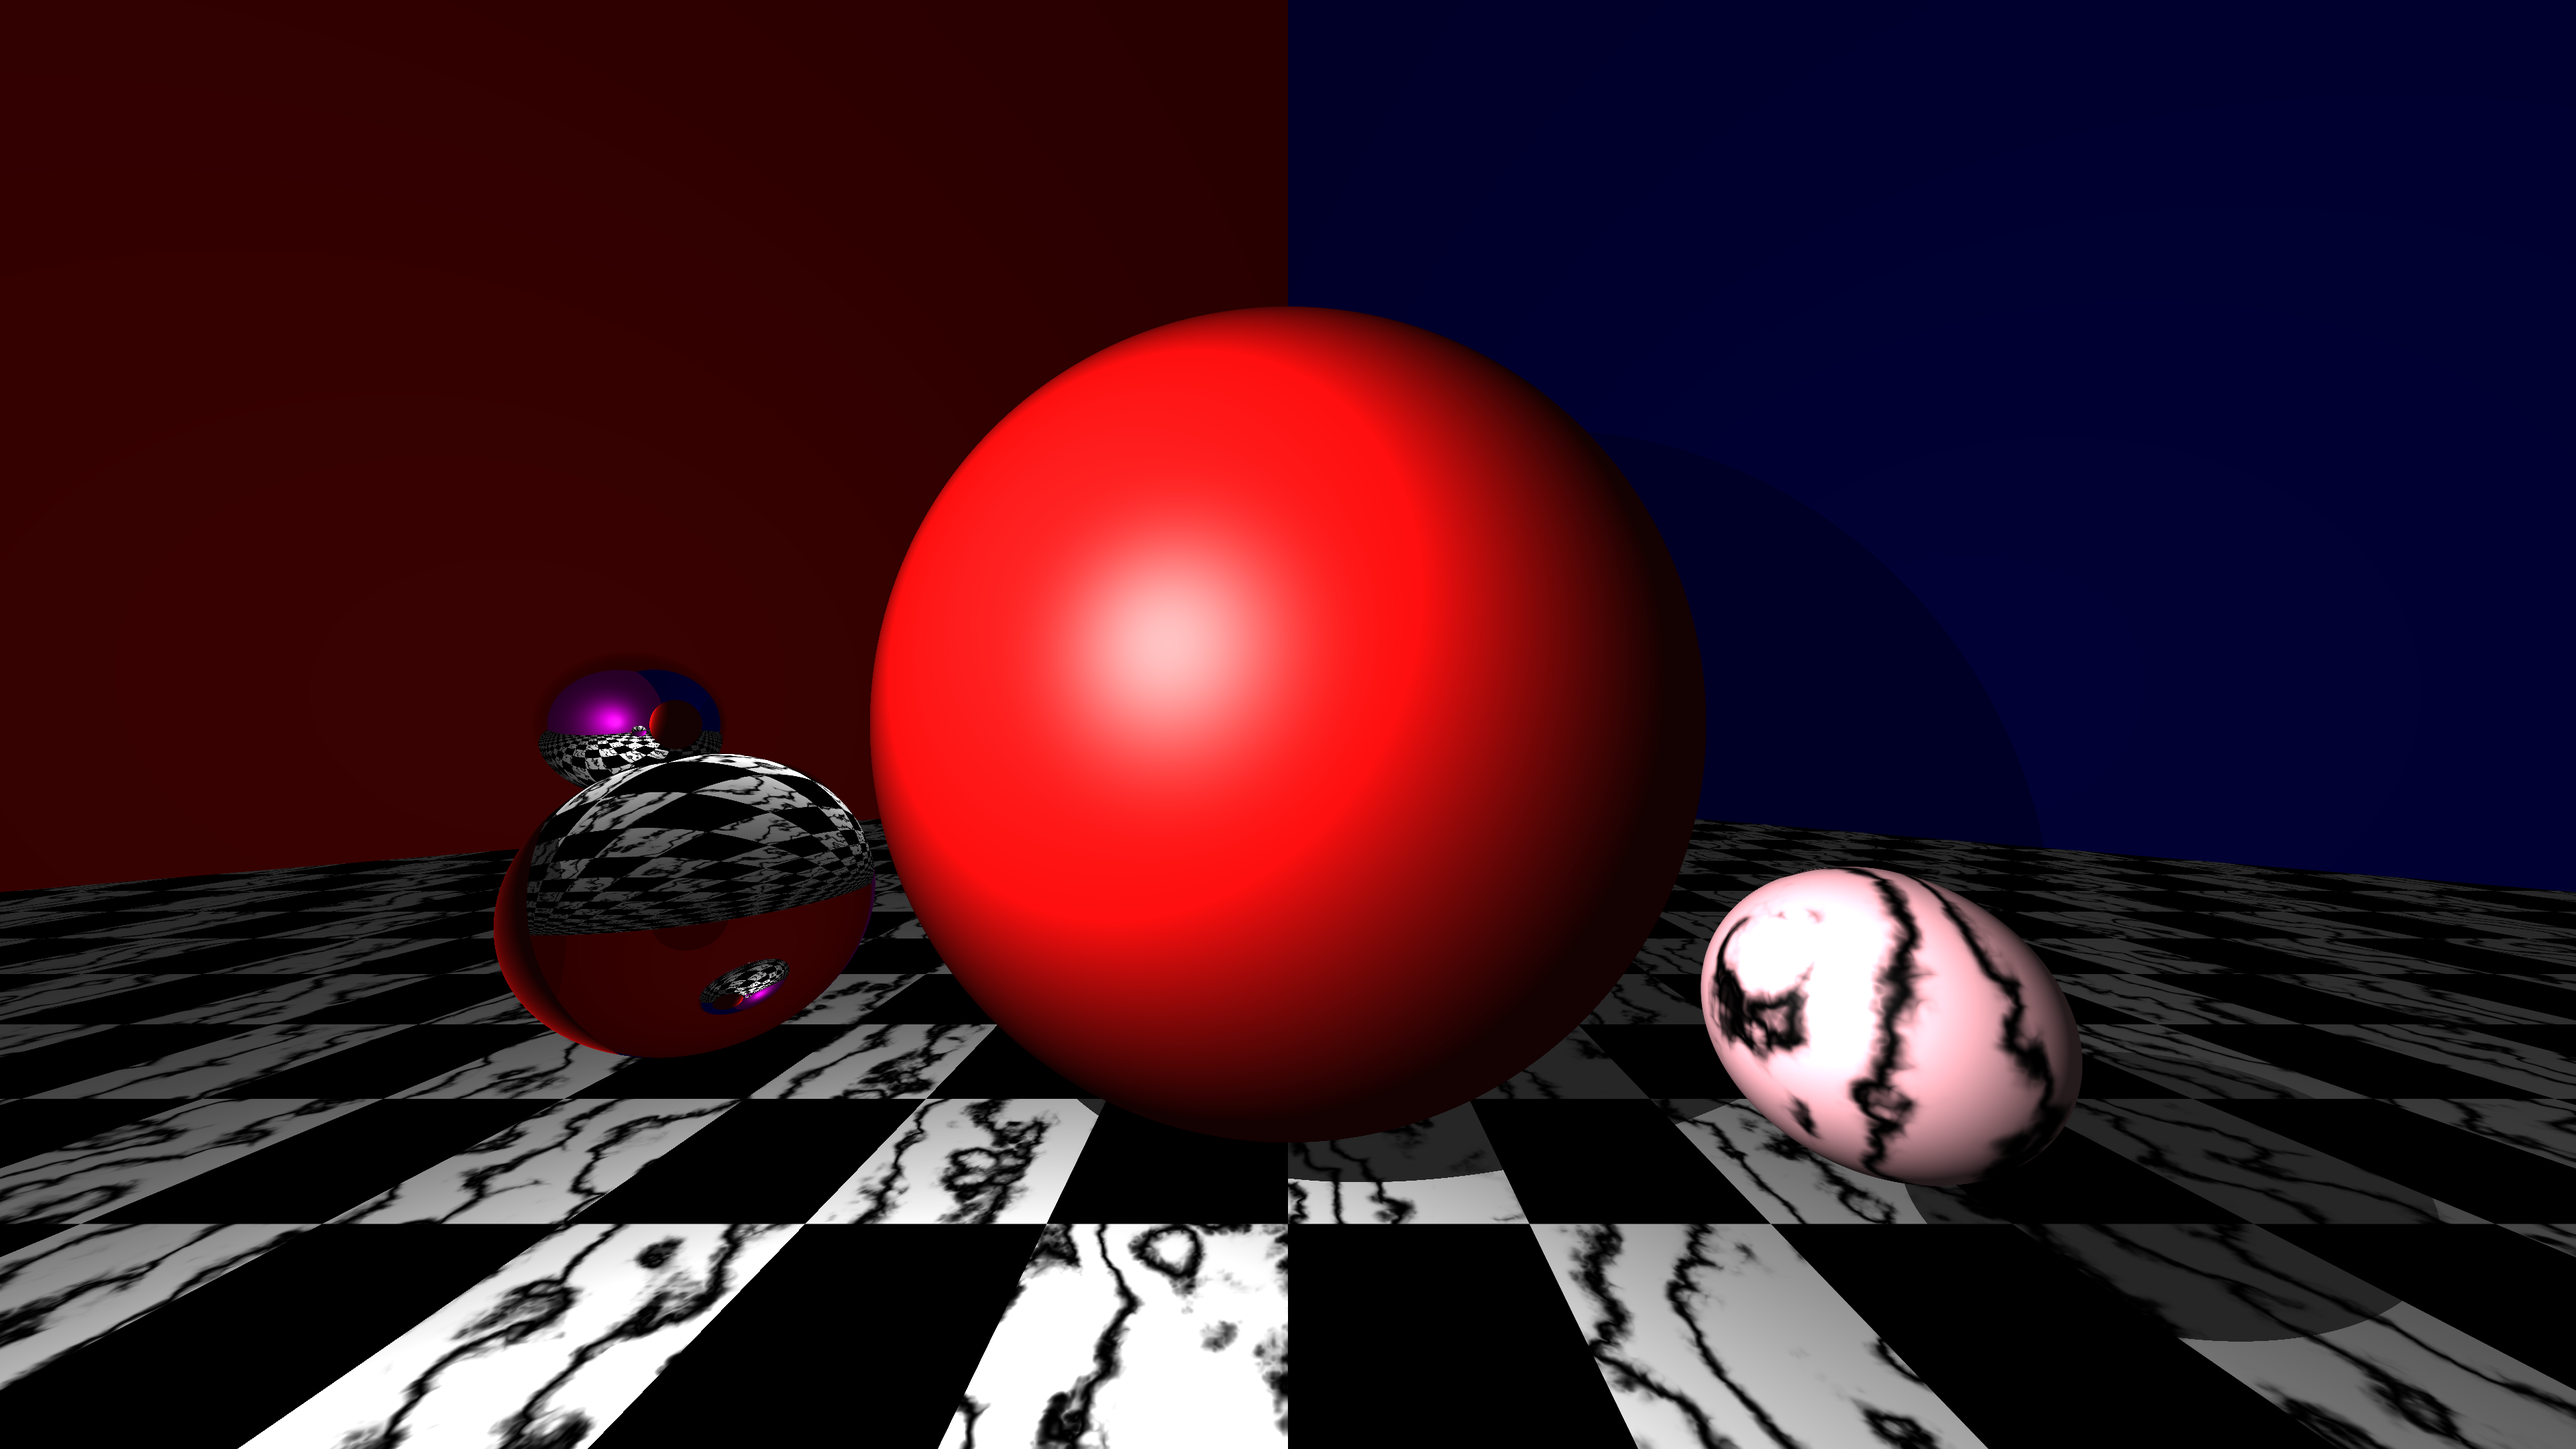
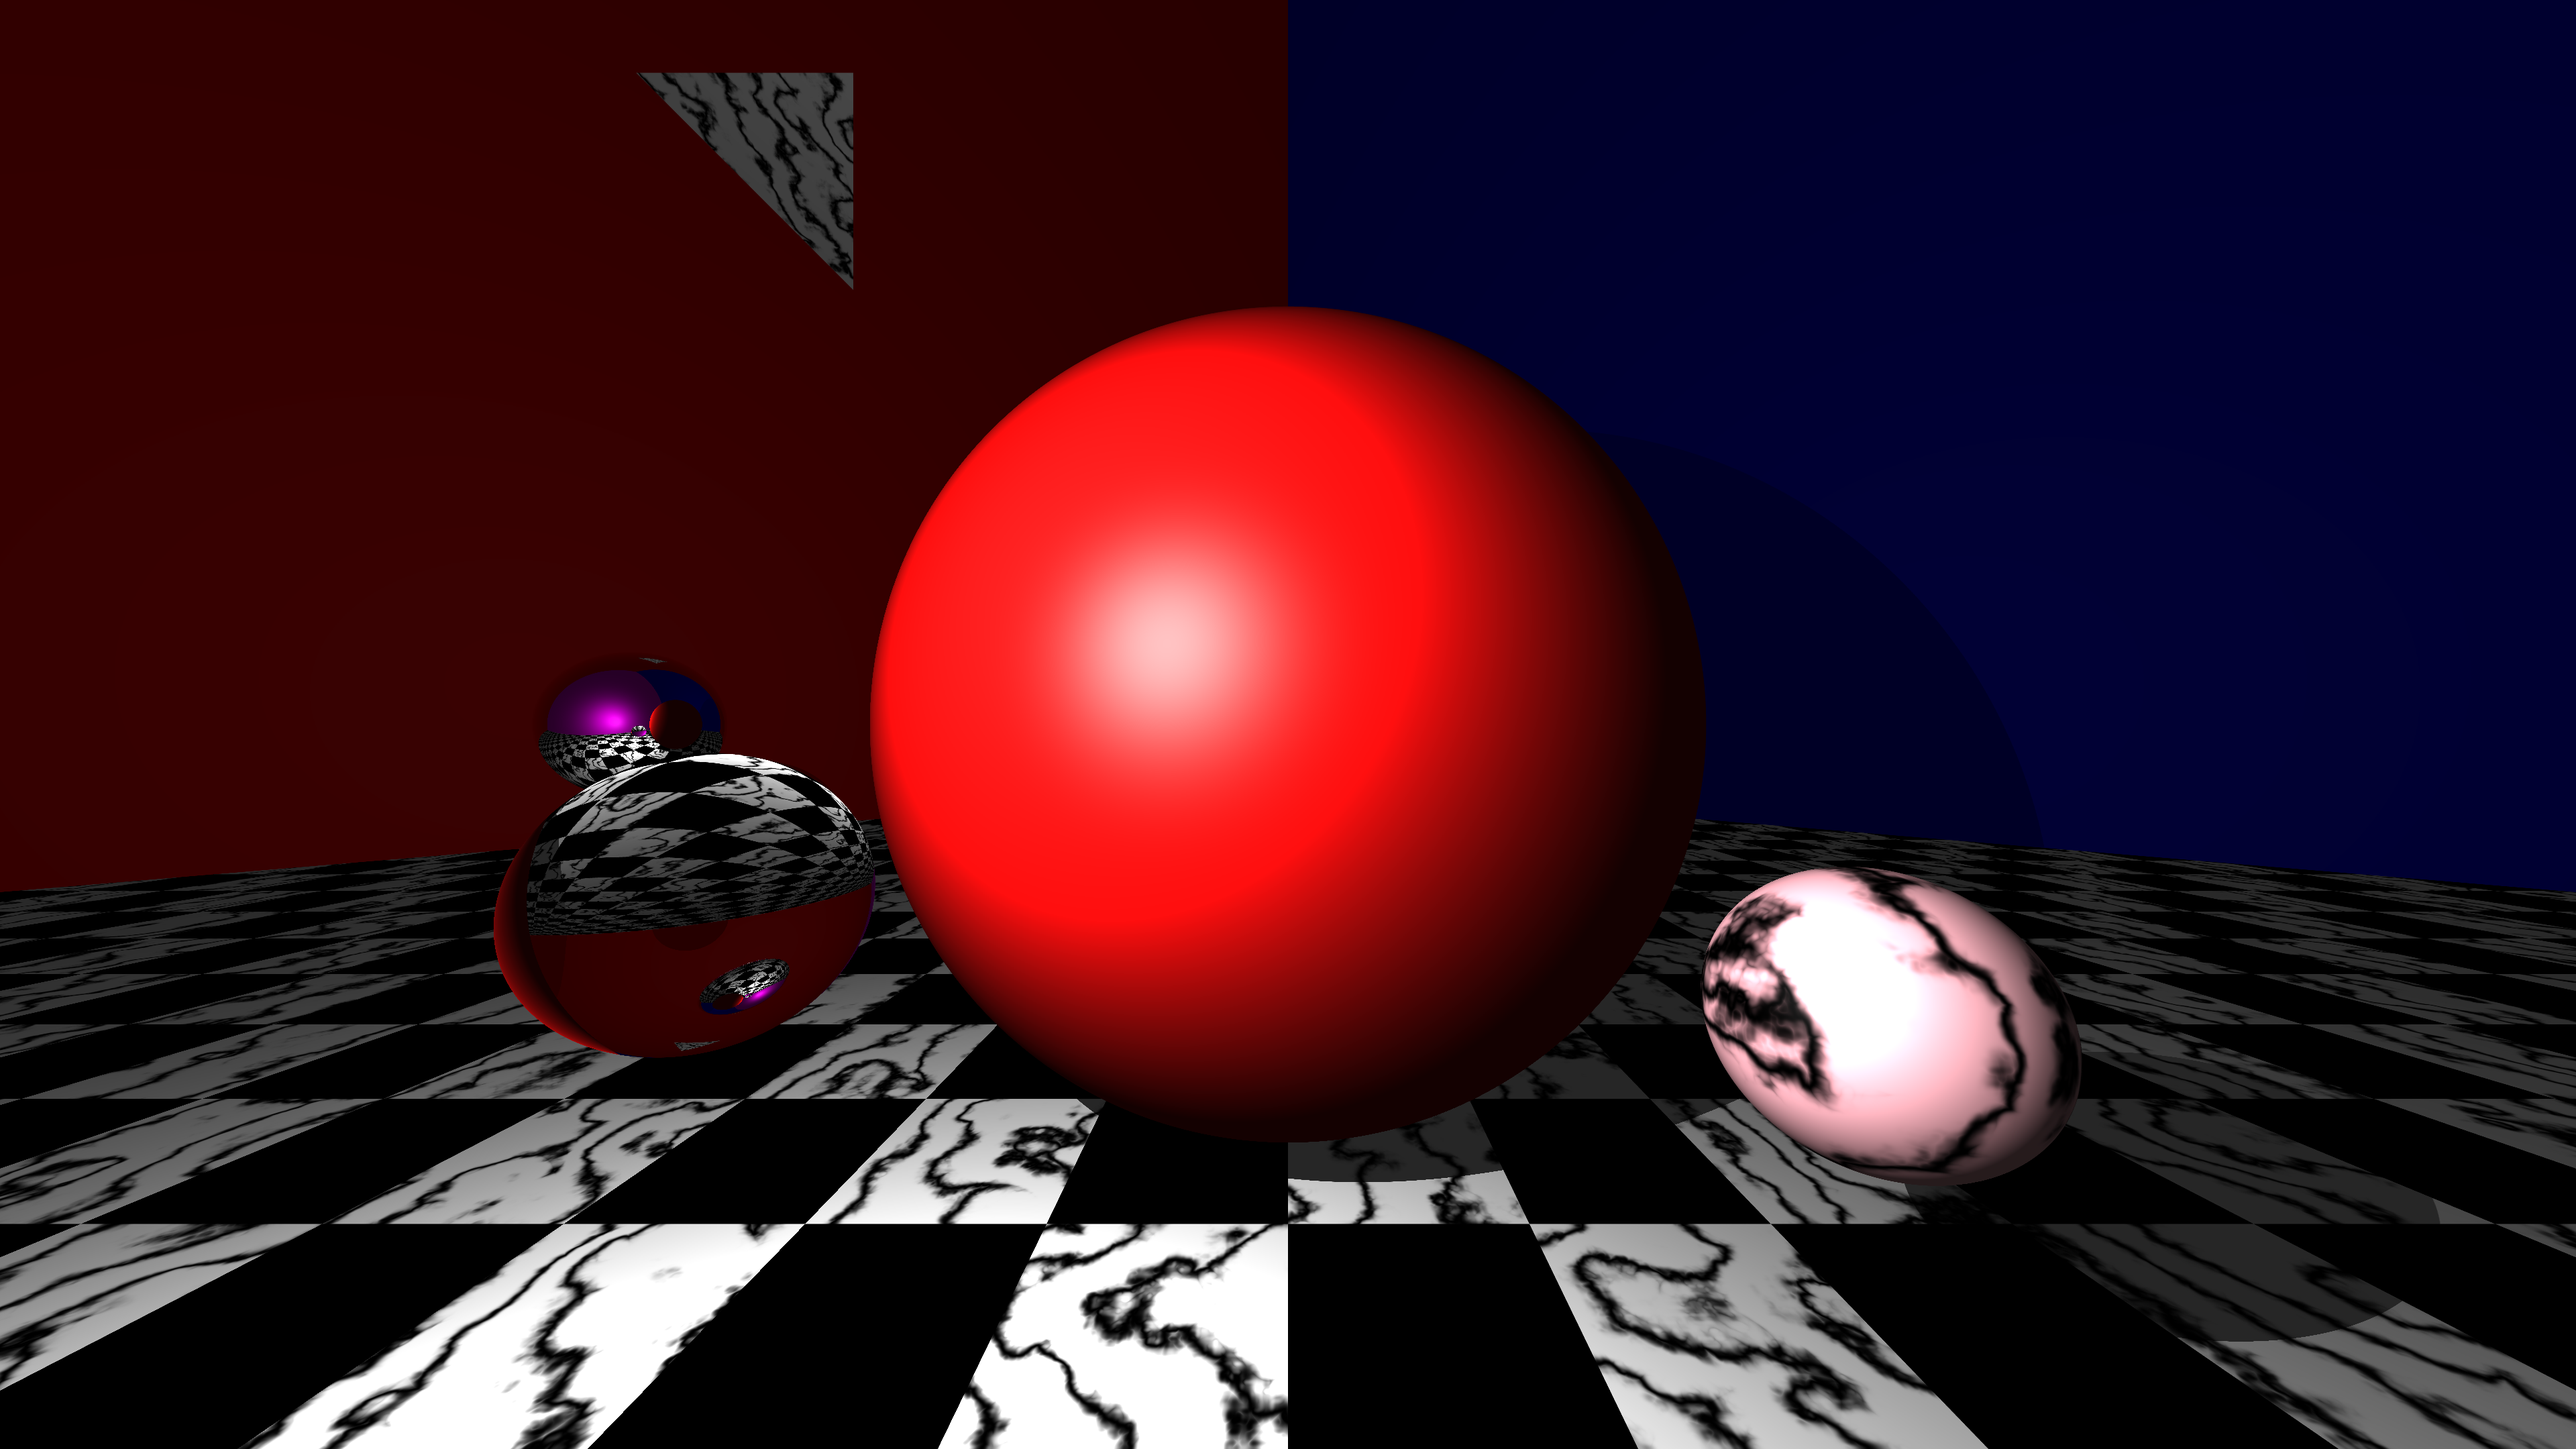
add triangle objects. needs testing

diff --git a/src/tracer/object.rs b/src/tracer/object.rs
@@ -1,4 +1,4 @@
-use crate::DVec3;
+use crate::{DVec3, DMat3};
 use crate::tracer::ray::Ray;
 use crate::tracer::hit::Hit;
 use crate::tracer::material::Material;
@@ -15,6 +15,99 @@ pub trait Object: Sync {
     fn material(&self) -> &Material;
 }
 
+/* FIGURE OUT BEING INSIDE. CANT BE INSIDE PLANES OR TRIANGLES. (OR RECTANGLES) */
+
+
+/* barycentir interpolation ~ different texture at each point of triangle */
+/* normal inside?? */
+pub struct Triangle {
+    a: DVec3,
+    b: DVec3,
+    c: DVec3,
+    n: DVec3,
+    material: Material,
+}
+
+impl Triangle {
+    /* assume non-degenerate */
+    pub fn new(a: DVec3, b: DVec3, c: DVec3, m: Material) -> Box<Self> {
+        let norm = -(b - a).cross(c - a).normalize();
+
+        Box::new(Self {
+            a: a,
+            b: b,
+            c: c,
+            n: norm,
+            material: m,
+        })
+    }
+}
+
+impl Object for Triangle {
+    fn material(&self) -> &Material { &self.material }
+
+    fn normal_at(&self, _p: DVec3) -> DVec3 { self.n }
+
+    /* barycentric triangle intersection with Cramer's rule */
+    /* some bug here that makes the order of points matter, in matrix stuff? */
+    fn hit(&self, r: &Ray) -> Option<Hit> {
+        /* can store a-c, a-b, and a instead. saves some computation.
+         * compiler should do it?
+         * need more if also want gamma and beta (for interp?) */
+
+        let mat_a = DMat3::from_cols(
+            self.a - self.b,
+            self.a - self.c,
+            r.dir
+        );
+        let det_a = mat_a.determinant();
+
+        if det_a < crate::EPSILON {
+            return None;
+        }
+
+        let vec_b = self.a - r.origin;
+
+        let vec_x = mat_a.inverse() * vec_b;
+/*
+        let beta = DMat3::from_cols(
+            vec_b,
+            mat_a.col(1),
+            mat_a.col(2),
+        ).determinant() / det_a;
+
+        let gamma = DMat3::from_cols(
+            mat_a.col(0),
+            vec_b,
+            mat_a.col(2),
+        ).determinant() / det_a;
+         */
+        let beta = vec_x.x;
+        let gamma = vec_x.y;
+        if beta < 0.0 || gamma < 0.0
+            || beta + gamma > 1.0 {
+            return None;
+        }
+/*
+        let t = DMat3::from_cols(
+            mat_a.col(0),
+            mat_a.col(1),
+            vec_b,
+        ).determinant() / det_a;
+         */
+        let t = vec_x.z;
+        if t < crate::EPSILON {
+            None
+        } else {
+            Some(Hit::new(
+                t,
+                self,
+                r.at(t),
+            ))
+        }
+    }
+}
+
 pub struct Plane {
     norm: DVec3,
     material: Material,
@@ -22,6 +115,7 @@ pub struct Plane {
 }
 
 impl Plane {
+    /* assume n != 0 */
     pub fn new(p: DVec3, n: DVec3, m: Material) -> Box<Plane> {
         let norm = n.normalize();
         Box::new(Plane {
@@ -52,7 +146,6 @@ impl Object for Plane {
                 t,
                 self,
                 r.at(t),
-                self.normal_at(r.at(t))
             ))
         }
     }
@@ -65,6 +158,7 @@ pub struct Sphere {
 }
 
 impl Sphere {
+    /* assume r != 0 */
     pub fn new(origin: DVec3, r: f64, mat: Material) -> Box<Sphere> {
         Box::new(Sphere {
             origin: origin,
@@ -105,7 +199,6 @@ impl Object for Sphere {
             t,
             self,
             r.at(t),
-            self.normal_at(r.at(t))
         ))
      }
 }

diff --git a/src/tracer/scene.rs b/src/tracer/scene.rs
@@ -1,6 +1,6 @@
 use crate::perlin::Perlin;
 use crate::DVec3;
-use crate::tracer::object::{Object, Sphere, Plane};
+use crate::tracer::object::{Object, Sphere, Plane, Triangle};
 use crate::tracer::hit::Hit;
 use crate::tracer::ray::Ray;
 use crate::tracer::material::Material;
@@ -91,6 +91,12 @@ impl Scene {
                     Material::Phong(Texture::Solid(
                         DVec3::new(136.0, 8.0, 8.0) / 255.9
                     )),
+                ),
+                Triangle::new(
+                    DVec3::new(-1.5, 1.5, -2.5),
+                    DVec3::new(-1.8, 1.8, -2.0),
+                    DVec3::new(-1.2, 1.8, -2.0),
+                    Material::Phong(Texture::Marble(Perlin::new(DVec3::ONE))),
                 ),
                 Sphere::new(
                     DVec3::new(-0.9, 0.0, -1.0),

diff --git a/src/tracer/hit.rs b/src/tracer/hit.rs
@@ -13,13 +13,13 @@ pub struct Hit<'a> {
 
 impl Hit<'_> {
     // return as option??
-    pub fn new(t: f64, o: &dyn Object, p: DVec3, n: DVec3) -> Hit {
+    pub fn new(t: f64, o: &dyn Object, p: DVec3) -> Hit {
         /* p and n not always needed. computing for every hit slows rendering */
         Hit {
             t: t,
             object: o,
             p: p,
-            n: n,
+            n: o.normal_at(p),
         }
     }
 }

diff --git a/src/tracer/object/triangle_tests.rs b/src/tracer/object/triangle_tests.rs
@@ -1,0 +1,11 @@
+/*
+
+this order no hit, change point order and hit
+
+Triangle::new(
+DVec3::new(-0.3, -0.3, -1.0),
+DVec3::new(0.3, -0.3, -1.0),
+DVec3::new(0.0, 0.0, -1.0),
+Material::Phong(Texture::Solid(DVec3::ONE)),
+                ),
+*/

diff --git a/src/main.rs b/src/main.rs
@@ -1,4 +1,4 @@
-use glam::{UVec3,f64::DVec3};
+use glam::{UVec3, f64::{DVec3, DMat3}};
 use rayon::iter::{ParallelIterator, IntoParallelIterator};
 use crate::tracer::scene::Scene;
 use crate::tracer::camera::Camera;
